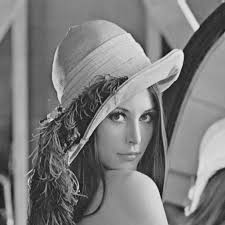
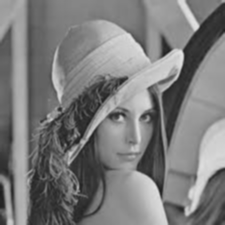
"update canny detector"

diff --git a/simple_edge_detector.py b/simple_edge_detector.py
@@ -3,12 +3,10 @@ import matplotlib.pyplot as plt
 import numpy as np
 import cv2 as cv
 
-
-
-
-
-
 def get_kernel_size(filter_name="sobel"):
+    
+    # first order
+    
     if filter_name == "sobel":
         
         Gx = np.array([[1.0, 0.0, -1.0], 
@@ -50,46 +48,43 @@ def get_kernel_size(filter_name="sobel"):
         return Gx, Gy, 3
     
     
-def plot_hist(data):
-    plt.hist(data, bins=10, edgecolor='black')  # Chọn số lượng bins và màu viền
-    plt.xlabel('Value')
-    plt.ylabel('Amount')
-    plt.title('Itensity histogram')
-    plt.grid(True)
-    plt.show()
+def gradient_orientation(gx, gy):
+    return np.arctan2(gy, gx)
 
 def edge_operator(img, filter_name="sobel"):
     img_gray = cv.cvtColor(img, cv.COLOR_BGR2GRAY)
     w, h = img_gray.shape
     Gx, Gy, kernel_size = get_kernel_size(filter_name)
-    mag_list = []
     
-    x_img, y_img, magnimtude_img = np.zeros((w, h)), np.zeros((w, h)), np.zeros((w, h))
+    x_img, y_img, magnimtude_img, oriented_img = np.zeros((w, h)), np.zeros((w, h)), np.zeros((w, h)), np.zeros((w, h))
+    
     
     for i in range(w - kernel_size + 1):
         for j in range(h - kernel_size + 1):
             gx = np.sum(np.multiply(Gx, img_gray[i:i + kernel_size, j:j + kernel_size])) /  2 * kernel_size  # x direction
             gy = np.sum(np.multiply(Gy, img_gray[i:i + kernel_size, j:j + kernel_size])) /  2 * kernel_size  # y direction
             mag = np.sqrt(gx ** 2 + gy ** 2) # magnitude
-            print(gx)
-            print(gy)
+            oriented = gradient_orientation(gx, gy)
+            
+            
             x_img[i + 1, j + 1], y_img[i + 1, j + 1] = gx, gy
             magnimtude_img[i + 1, j + 1] =  mag
-            mag_list.append(mag)
-                
+            oriented_img[i + 1, j + 1] = oriented
+                            
     cv.imwrite(f"gray.png", img_gray)
     cv.imwrite(f"result/gx_{filter_name}.png", x_img)
     cv.imwrite(f"result/gy_{filter_name}.png", y_img)
     cv.imwrite(f"result/mag_{filter_name}.png", magnimtude_img)
     # plt.imsave(f"result/mag_{filter_name}.png", magnimtude_img, cmap=plt.get_cmap('gray'))
 
-    return magnimtude_img
+    return x_img, y_img, magnimtude_img, oriented_img
 
 
 
 def edge_detection(img_path, filter_name="sobel", threshold=150):
     img = cv.imread(img_path)
-    magnimtude_img = edge_operator(img, filter_name) 
+    img = cv.GaussianBlur(img,(5,5),0)
+    x_img, y_img, magnimtude_img, oriented_img = edge_operator(img, filter_name)
     edge_img = np.where(magnimtude_img > threshold, 255, 0).astype(np.uint8)
     cv.imwrite(f"result/edge_{filter_name}.png", edge_img)
 
@@ -97,4 +92,4 @@ def edge_detection(img_path, filter_name="sobel", threshold=150):
 
 img_path = "img\lena.jpg"
 edge_detection(img_path)
-edge_detection(img_path, "sobel_5x5")
+# edge_detection(img_path, "sobel_5x5")

diff --git a/canny_edge_detector.py b/canny_edge_detector.py
@@ -1,0 +1,52 @@
+from matplotlib.image import imread
+import matplotlib.pyplot as plt
+import numpy as np
+import cv2 as cv
+import math
+from simple_edge_detector import *
+
+
+def get_indx_neighbors(i, j, oriented):
+    if math.isclose(oriented, -math.pi):
+        return i, j + 1
+    elif oriented < -math.pi / 2:
+        return i - 1, j + 1
+    elif math.isclose(oriented, -math.pi / 2):
+        return i - 1, j
+    elif oriented < 0:
+        return i, j - 1
+    elif math.isclose(oriented, math.pi / 2):
+        return i + 1, j - 1
+    elif oriented < math.pi / 2:
+        return i + 1, j
+    elif math.isclose(oriented, math.pi):
+        return i + 1, j + 1
+    else:
+        return i, j + 1
+
+def canny_edge_detect(img_path, filter_name="sobel", threshold=150):
+    img = cv.imread(img_path)
+    img = cv.GaussianBlur(img,(3,3),0)
+    img_gray = cv.cvtColor(img, cv.COLOR_BGR2GRAY)
+
+    x_img, y_img, magnimtude_img, oriented_img = edge_operator(img, filter_name)
+    
+    w, h = img_gray.shape
+    Gx, Gy, kernel_size = get_kernel_size(filter_name)
+    final_image = np.zeros((w, h))
+    
+    for i in range(w - kernel_size + 1):
+        for j in range(h - kernel_size + 1):
+            i_neibor, j_neibor  = get_indx_neighbors(i, j, oriented_img[i, j])
+            if magnimtude_img[i, j] > magnimtude_img[i_neibor, j_neibor]:
+                print("Truth")
+                final_image[i, j] = magnimtude_img[i,j]
+    
+    edge_img = np.where(final_image > threshold, 255, 0).astype(np.uint8)
+
+    cv.imwrite(f"result/mag_cany.png", magnimtude_img)
+    cv.imwrite(f"result/edge_cany.png", edge_img)
+    
+
+img_path = "img\lena.jpg"
+canny_edge_detect(img_path)
